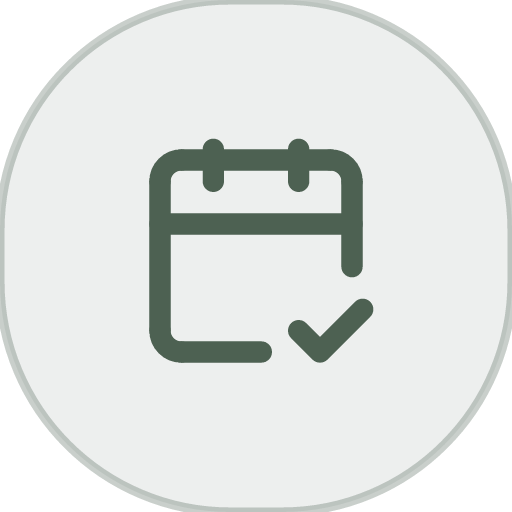
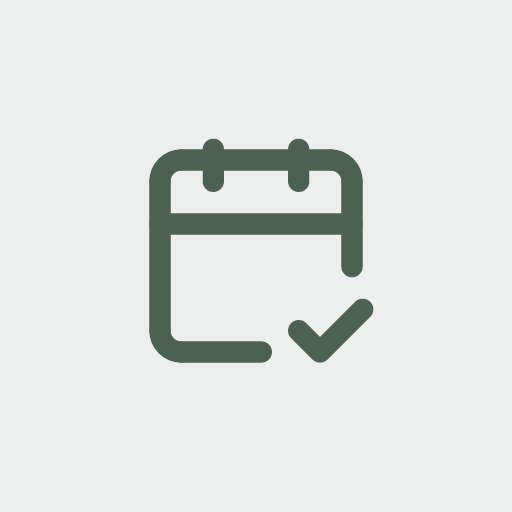
fix: 192/512 앱 아이콘 배경의 circle 아티팩트 제거 (v1.6.2)
Splash의 rounded-2xl 반경을 그대로 옮겨 그리다 보니 배경이 거의 원에
가까워, 홈 화면에서 OS 자체 마스크와 겹쳐 어색해 보이던 문제를 고쳤다.
maskable 아이콘과 동일하게 순정 사각형 채움으로 바꾸고 모양은 OS
마스크에 맡긴다. 브라우저 탭에서만 쓰이는 favicon.svg는 OS 마스킹을
거치지 않으므로 기존 rounded-2xl 박스를 그대로 유지했다.

Changed region(s): [[0.0, 0.0, 1.0, 1.0]]

diff --git a/DESIGN.md b/DESIGN.md
@@ -42,6 +42,8 @@
 
 `public/icon-*.png`, `public/favicon.svg`는 `scripts/gen_icons_from_splash.mjs`(`@resvg/resvg-js`로 실제 SVG를 그대로 래스터화, 임의로 다시 그리지 않음)로 생성한다. 로고를 바꾸면 이 스크립트의 `CALENDAR_CHECK_PATHS`를 새 아이콘의 SVG path로 교체하고 재실행한다. (`scripts/gen_icons.py`는 이전 Pillow 버전으로 기록용으로만 남아있다.)
 
+**192/512 아이콘은 배경을 직접 라운딩하지 않는다(v1.6.2).** 원래 Splash의 `rounded-2xl`(56px 박스에 25.2px, 비율 0.45) 반경을 그대로 192/512px 아이콘에도 옮겨 그렸는데, 이 비율이 원에 가까울 만큼 커서 홈 화면에서 OS(iOS 스퀴클, Android 런처 등)가 아이콘 위에 또 씌우는 자기 마스크와 겹쳐 "원이 아이콘 프레임과 어긋나 보이는" 문제가 있었다 — 실제로 눈으로 봤을 때 완전한 circle처럼 보였다. 512-maskable 아이콘은 애초에 이 문제가 없었는데(배경을 안 그리고 OS 마스크에 모양을 완전히 맡기는 방식이었어서), 같은 방식을 192/512 일반 아이콘에도 적용해 배경 라운딩·테두리를 없애고 순정 사각형 채움으로 바꿨다. **favicon.svg만 예외** — 브라우저 탭 아이콘은 OS 홈 화면 마스킹을 안 거치므로 Splash와 똑같은 `rounded-2xl` 박스를 그대로 유지한다.
+
 ## 정보 구조 (5탭)
 
 1. **오늘** — 최상단에 "할 일 추가" 버튼(매일 반복 기본값으로 새 할 일 추가 시트가 열림)이 있고, 그 아래로 얇은 점선 구분선, 그다음 "고정 할 일"·"오늘만" 두 섹션이 이어진다(두 섹션 사이에도 같은 점선 구분선이 있다). 항목이 하나라도 있으면 구분선 바로 아래에 "항목을 길게 누르면 삭제할 수 있어요" 안내가 한 줄 뜬다(길게 누르기 삭제는 버튼이 따로 없어 발견하기 어렵다는 점을 보완한 것, v1.6.1) — 항목이 전혀 없으면 이 줄도 생략되고 두 섹션이 그만큼 위로 붙는다("아직 등록한 할 일이 없습니다" 같은 빈 상태 문구는 v1.6.1에서 없앴다: 사용자가 알아서 추가할 것이므로 불필요하다고 판단). 각 섹션은 접고 펼 수 있고, 헤더의 손잡이를 위아래로 드래그하면 두 섹션의 순서를 바꿀 수 있다(설정에 저장됨). "오늘만" 섹션은 항목이 없어도 항상 보이며 자체 "+" 버튼으로 오늘 하루짜리 항목을 바로 추가할 수 있다. 항목 이름을 탭하면 그 자리에서 이름을 바꿀 수 있고, 아이콘을 탭하면 아이콘 선택 시트가 뜨며, 항목을 길게 누르면 삭제 여부를 묻는 팝업이 뜬다(완료 표시용 원형 버튼은 별도로 오른쪽에 있어 서로 겹치지 않는다). 삭제는 소급 삭제가 아니라 소급 종료다 — 아래 "핵심 상호작용 규칙" 참고. 새 할 일 추가 시트의 입력 순서는 이름 → 반복 → 아이콘 → (프로젝트 2개 이상이면) 프로젝트다. **요일 선택 반복 항목의 요일 표시는 클릭한 순서가 아니라 항상 월화수목금토일 순서로 고정된다**(`WEEKDAY_DISPLAY_ORDER`, v1.6.1) — 화·금·수 순으로 체크해도 "수·금·화"가 아니라 "화·수·금"으로 보인다.

diff --git a/히스토리.md b/히스토리.md
@@ -168,3 +168,10 @@
 - **검증**: 브라우저 자동화 도구(`computer`의 스크린샷/클릭)가 이번 라운드 중간부터 응답이 멎는 문제가 반복돼서, 실제 상호작용 검증은 `javascript_tool`로 DOM에 직접 포인터/입력 이벤트를 실어 진행했다 — 색상 변경, 인라인 텍스트 수정(포커스 이동 커밋 확인), 드래그 순서변경(포인터다운→무브→업 시퀀스로 실제 순서가 바뀌고 localStorage에 반영되는 것까지), 순차 표시가 `order` 순으로 도는 것, 새 문구 추가 시 선택한 색이 그대로 저장되는 것, 진입 흐름 전체(스플래시→동기화 안내→마음가짐 팝업→앱)와 마무리 페이드, 설정 탭 재클릭 리셋까지 전부 실제 동작을 확인했다. 테스트용으로 만들었던 문구들은 확인 후 삭제해 원래 시드 문구 하나만 남겼다.
 - **빌드 도구 플레이크**: `tsc -b`가 이번에도 반복적으로 멈췄다(0% CPU로 진행 없음) — 이전에 정리했던 `node_modules/.tmp/*.tsbuildinfo` 손상과 같은 패턴이었다. `tsc -b --force`로 증분 캐시를 건너뛰어 우회하고, `vite build`는 별도로 실행해 정상 완료를 확인했다(391ms, 필요한 에셋 전부 정상 출력).
 - 버전 1.6.0 → **1.6.1**(전부 기존 기능 다듬기·버그 수정이라 PATCH — 이번 라운드에 MINOR/PATCH 기준을 명시적으로 정리했다).
+
+## 2026-08-13 — 앱 아이콘 배경 circle 문제 수정 (v1.6.2)
+
+- **버그 확인**: 사용자가 "로고를 잘 따긴 하는데, circle가 너무 강하게 자리 잡고 있어서 아이콘 프레임이랑 어긋나게 맞다"고 지적. `public/icon-192.png`를 직접 열어보니 실제로 완전한 원처럼 보였다 — `scripts/gen_icons_from_splash.mjs`가 Splash의 `rounded-2xl` 반경(56px 박스에 25.2px, 비율 0.45)을 그대로 192/512px에 옮겨 그렸는데, 이 비율이 원에 가까울 만큼 커서 배경 자체가 거의 circle이 됐다. 512-maskable 아이콘은 애초에 배경을 안 그리고 OS 마스크에 모양을 완전히 맡기는 방식이라 이 문제가 없었다(사용자도 이건 지적하지 않았다) — 홈 화면에서 iOS 스퀴클·Android 런처가 아이콘 위에 또 자기 마스크를 씌우는데, 우리가 그린 근사-원이 그 프레임과 겹쳐 어색하게 보인 것.
+- **수정**: 192·512 일반 아이콘에서 배경 라운딩(rounded-rect)과 테두리(border stroke)를 완전히 제거하고, maskable 아이콘과 같은 방식(순정 사각형 채움, 모양은 OS 마스크에게 위임)으로 통일했다. **favicon.svg만 예외로 남겼다** — 브라우저 탭 아이콘은 OS 홈 화면 마스킹을 거치지 않으므로 Splash와 똑같은 `rounded-2xl` 박스를 그대로 유지해도 문제가 없고, 오히려 유지해야 Splash와 "같은 그림"이라는 원칙에 맞는다.
+- `node scripts/gen_icons_from_splash.mjs`를 재실행해 `icon-192.png`/`icon-512.png`/`icon-512-maskable.png`/`favicon.svg`를 다시 생성하고, 결과 PNG를 직접 열어 원이 사라지고 순정 사각형 배경 위에 로고만 남은 것을 확인했다.
+- 버전 1.6.1 → **1.6.2**(기존 아이콘의 시각적 결함을 고친 것이라 PATCH).
